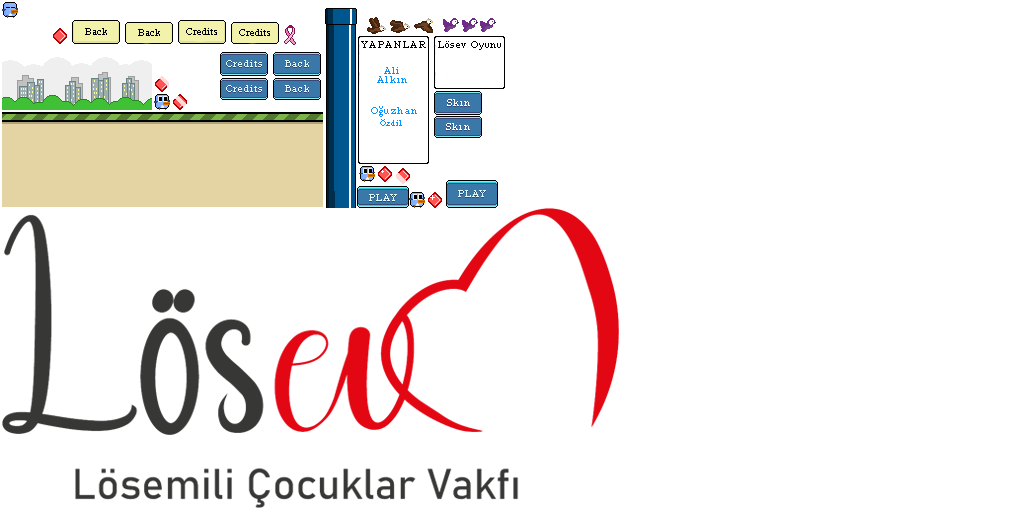
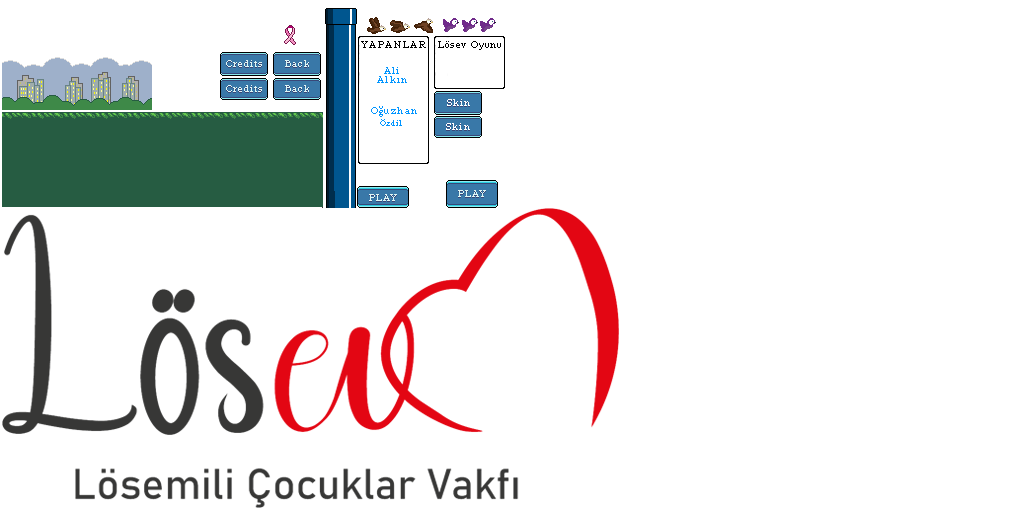
ground, arka renk, zemin değişti

Changed region(s): [[0.0, 0.0312, 0.3125, 0.4062], [0.3438, 0.3125, 0.4375, 0.4062], [0.0, 0.0, 0.0312, 0.0312]]

diff --git a/core/src/com/ozzyozdil/flappydeneme/GameplayScreen.java b/core/src/com/ozzyozdil/flappydeneme/GameplayScreen.java
@@ -77,7 +77,7 @@ public class GameplayScreen extends ScreenAdapter {
         scoreLabel.setPosition(FlappyDeneme.WIDTH / 2, FlappyDeneme.HEIGHT * .9f, Align.center);
         uiStage.addActor(scoreLabel);
 
-        tapToRetry = new Label("Tap To Retry!", new Label.LabelStyle(Assets.fontMedium, Color.WHITE));
+        tapToRetry = new Label("", new Label.LabelStyle(Assets.fontMedium, Color.WHITE));
         tapToRetry.setPosition(FlappyDeneme.WIDTH / 2, 0, Align.top);
         uiStage.addActor(tapToRetry);
 
@@ -189,11 +189,11 @@ public class GameplayScreen extends ScreenAdapter {
 
             best.setText("Best: " + SavedDataManager.getInstance().getHighScore());
             best.setPosition(FlappyDeneme.WIDTH / 2 - 10, 0, Align.top);
-            best.addAction(Actions.delay(1f, Actions.moveToAligned(FlappyDeneme.CENTER_X - 10, FlappyDeneme.CENTER_Y, Align.top, .75f, Interpolation.sine)));
+            best.addAction(Actions.delay(1f, Actions.moveToAligned(FlappyDeneme.CENTER_X - 10, FlappyDeneme.CENTER_Y + 50, Align.top, .75f, Interpolation.sine)));
 
             money.setText("Money: " + SavedDataManager.getInstance().getTotalMoney());
             money.setPosition(FlappyDeneme.WIDTH / 2 - 10, 0, Align.top);
-            money.addAction(Actions.delay(1f, Actions.moveToAligned(FlappyDeneme.CENTER_X - 10, FlappyDeneme.CENTER_Y - 30, Align.top, .75f, Interpolation.sine)));
+            money.addAction(Actions.delay(1f, Actions.moveToAligned(FlappyDeneme.CENTER_X - 10, FlappyDeneme.CENTER_Y + 20, Align.top, .75f, Interpolation.sine)));
 
             screenState = State.DYING;
         }

diff --git a/core/src/com/ozzyozdil/flappydeneme/Assets.java b/core/src/com/ozzyozdil/flappydeneme/Assets.java
@@ -33,6 +33,8 @@ public class Assets {
     public static TextureRegion title;
     public static TextureRegion playDown;
     public static TextureRegion playUp;
+    public static TextureRegion skinDown;
+    public static TextureRegion skinUp;
     public static TextureRegion backDown;
     public static TextureRegion backUp;
     public static TextureRegion creditsDown;
@@ -72,6 +74,8 @@ public class Assets {
         title = atlas.findRegion("title");
         playDown = atlas.findRegion("play_down");
         playUp = atlas.findRegion("play_up");
+        skinDown = atlas.findRegion("skin_down");
+        skinUp = atlas.findRegion("skin_up");
         backDown = atlas.findRegion("back_down");
         backUp = atlas.findRegion("back_up");
         creditsDown = atlas.findRegion("credits_down");

diff --git a/core/src/com/ozzyozdil/flappydeneme/MainMenuScreen.java b/core/src/com/ozzyozdil/flappydeneme/MainMenuScreen.java
@@ -106,7 +106,7 @@ public class MainMenuScreen extends ScreenAdapter {
     }
 
     private void initSkinButton() {
-        skinButton = new Button(new TextureRegionDrawable(Assets.creditsUp), new TextureRegionDrawable(Assets.creditsDown));
+        skinButton = new Button(new TextureRegionDrawable(Assets.skinDown), new TextureRegionDrawable(Assets.skinUp));
         skinButton.setWidth(96);
         skinButton.setHeight(48);
         skinButton.setPosition(FlappyDeneme.WIDTH/2 - 55, FlappyDeneme.HEIGHT *.28f, Align.center);

diff --git a/core/src/com/ozzyozdil/flappydeneme/Utils.java b/core/src/com/ozzyozdil/flappydeneme/Utils.java
@@ -39,15 +39,15 @@ public class Utils {
         }
         else if (random == 1){
             // A light purple color
-            r = 153f/255f;
-            g = 102f/255f;
+            r = 204f/255f;
+            g = 204f/255f;
             b = 255f/255f;
         }
         else {
             // A light peach color
-            r = 255f/255f;
+            r = 204f/255f;
             g = 204f/255f;
-            b = 153f/255f;
+            b = 255f/255f;
         }
 
         return new Color(r, g, b, 1f);
